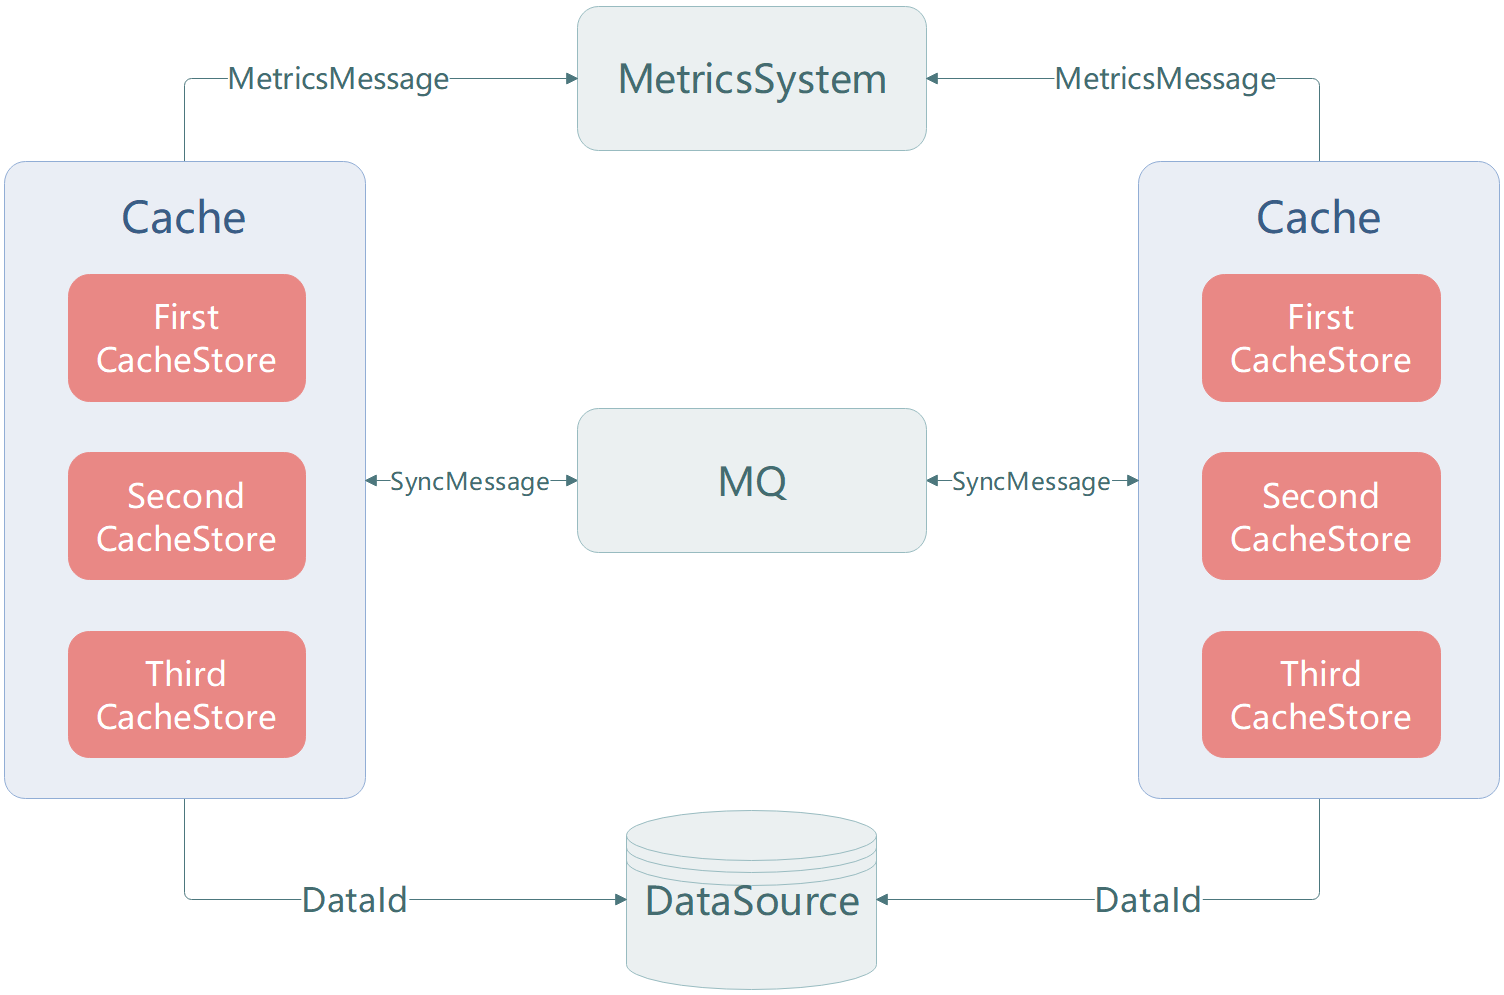
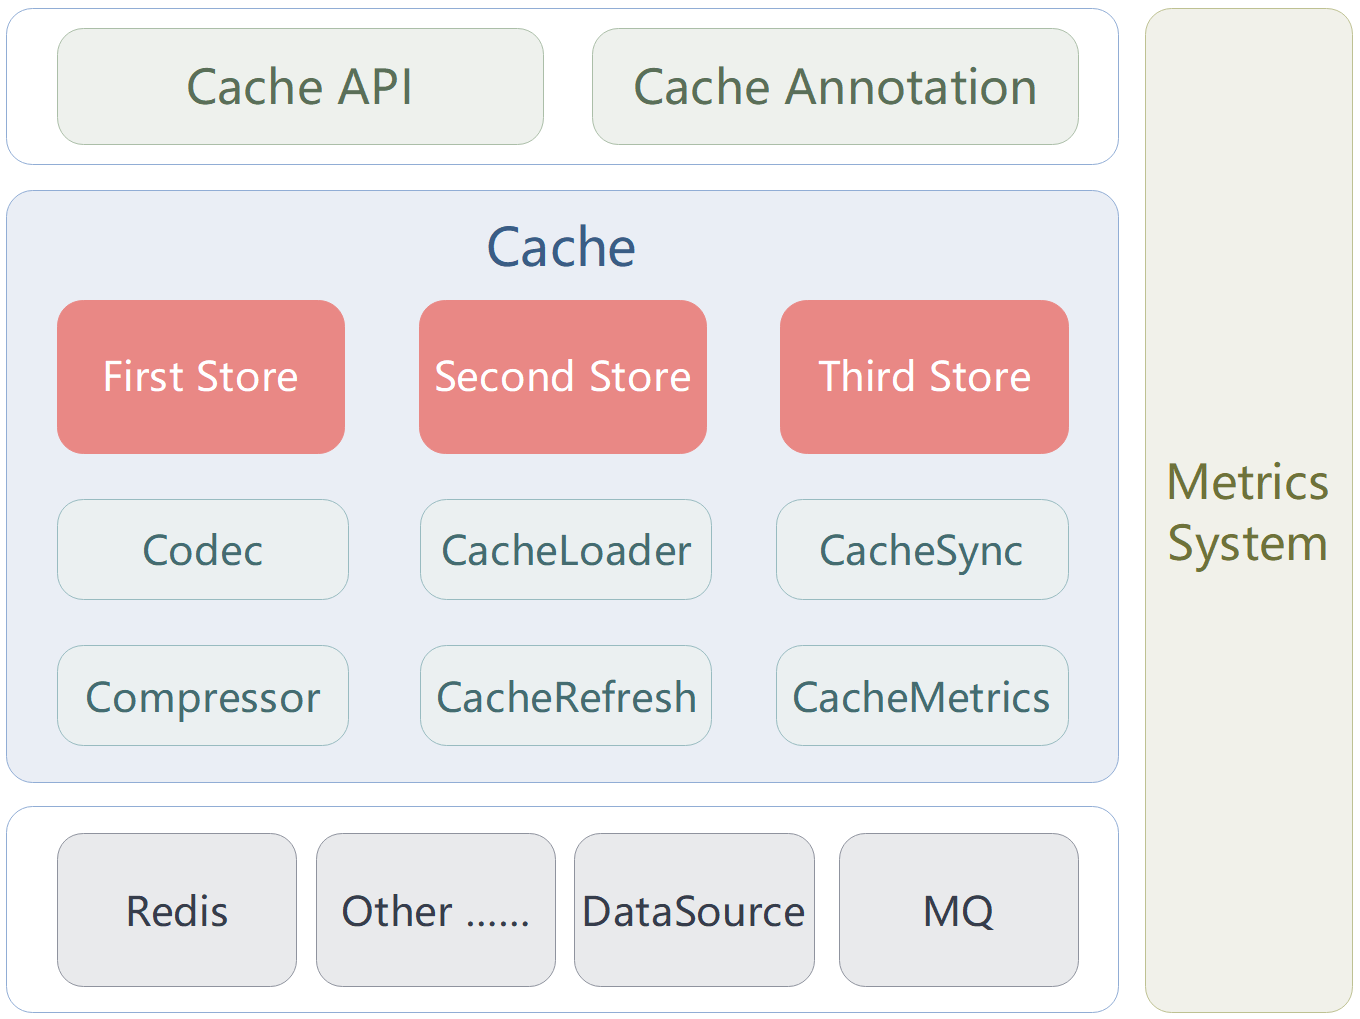
1.0.0

diff --git a/README.md b/README.md
@@ -8,23 +8,30 @@
 
 ## 2. 基本架构
 
-![Architecture](docs/images/architecture.png)
+<img src="docs/images/architecture.png" alt="Architecture" style="zoom:50%;" />
 
 **说明**：
 
-* `Cache`：缓存实例。
-* `CacheStore`：缓存数据存储，每个缓存实例最多可支持三级缓存数据存储。
-* `MetricsMessage`：缓存指标信息，用于记录缓存调用次数及命中率等指标。
-* `MetricsSystem`：缓存指标信息的收集、存储、计算与展示。
-* `SyncMessage`：缓存数据同步信息，用于维护各个缓存实例的数据一致性。
+* `Cache API`：缓存操作接口。
+* `Cache Annotation`：缓存注解。
+* `Cache`：缓存对象。
+* `Store`：缓存数据存储，每个缓存对象实例最多可支持三级缓存数据存储。
+* `Codec`：数据编解码（序列化与反序列化）。
+* `Compressor`：数据压缩。
+* `CacheLoader`：数据加载，用于从数据源读取数据。
+* `CacheRefresh`：缓存数据刷新，定时通过 `CacheLoader` 加载并刷新缓存数据。
+* `CacheSync`：缓存数据同步，用于维护各实例间私有缓存数据的一致性。
+* `CacheMetrics`：缓存指标采集，用于记录缓存调用次数及命中率等指标。
+* `MetricsSystem`：缓存指标信息的存储、计算与展示。
 * `MQ`：消息队列，用于转发数据同步消息（已有实现采用 `Redis Stream`）。
-* `DataSource`：数据源，当缓存无数据时，从数据源加载数据并存入缓存。
+* `DataSource`：数据源。
+* `Redis` or `Other……`：缓存数据存储仓库。
 
 ## 3. 特性
 
 - 支持多级缓存：一级缓存采用 `Caffeine`，二级缓存采用 `Redis`，最多可支持三级缓存。
 - 缓存数据同步：通过缓存事件广播，多个应用实例的缓存数据保持一致。
-- 缓存指标统计：支持调用次数、命中次数等指标，指标存储和数据展现可自由扩展。
+- 缓存指标统计：支持调用次数、命中次数等指标，数据呈现可自由扩展。
 - 缓存数据刷新：定时自动刷新缓存数据，避免慢查询导致应用响应缓慢。
 - 随机存活时间：可选择自动生成随机存活时间，避免大量数据集中过期，导致数据源压力过大。
 - 数据回源加锁：同一个键同一时刻仅允许一个线程回源查询，减轻数据源压力。

diff --git a/docs/Design.md b/docs/Design.md
@@ -19,6 +19,8 @@
 
 操作原则：**数据查询顺序从一级缓存到三级缓存，数据写入、删除顺序从三级缓存到一级缓存**。
 
+> 实际应用中，可能只有一级缓存或两级缓存，并不一定有全部三级缓存，这是可配置的。
+
 ### 2.1 数据查询
 - **流程**：按照一级缓存 → 二级缓存 → 三级缓存的顺序依次查询。
 - **图示**：
@@ -49,7 +51,7 @@
 * `ThreeLevelCache`：**三级缓存**
 * `TwoLevelCache`：**两级缓存**
 * `OneLevelCache`：**一级缓存**
-* `NoOpcache`：**空操作缓存**（如原来有使用缓存，现不再继续使用，可通过配置修改，无需修改代码）
+* `NoOpcache`：**空操作缓存**（方便配置修改，无需修改代码。某些情况下，开发者可能需临时禁用缓存，此时将用 `NoOpcache` 来实现。）
 
 ### 3.2 图示
 

diff --git a/TODO.md b/TODO.md
@@ -63,10 +63,12 @@
 - [X] 【测试】 缓存注解
 - [X] 【注释】 缓存注解
 - [X] 【开发】 Redis 获取数据超时时取消 Future
+- [X] 【文档】 Reference
 
 ### 待完成任务
 
 - [ ] 【开发】 接入 `micrometer` 作为 `metrics` 实现模块
 - [ ] 【开发】 native-image 适配
-- [ ] 【开发】 Reference
+- [ ] 【测试】 增加 Store 测试用例
+- [ ] 【文档】 架构图
 
